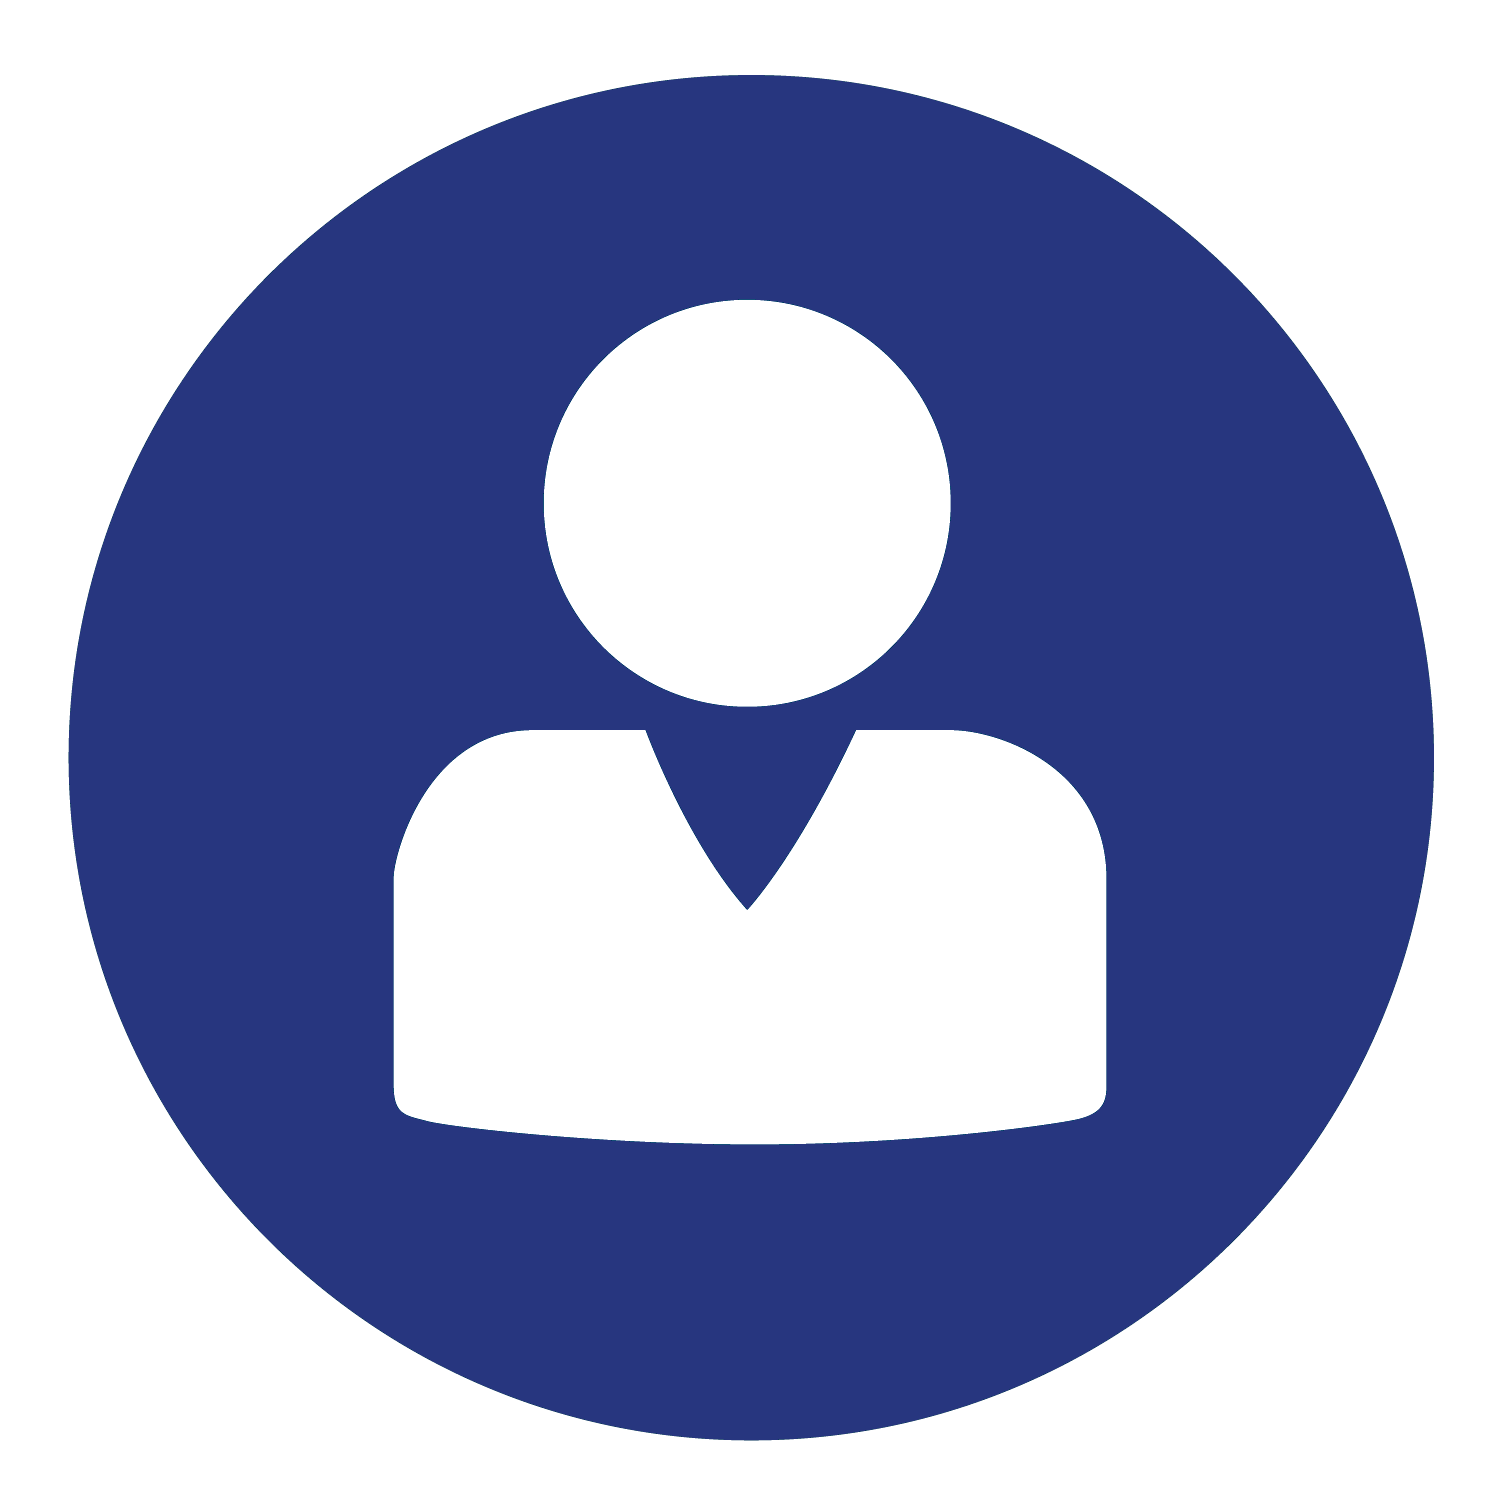
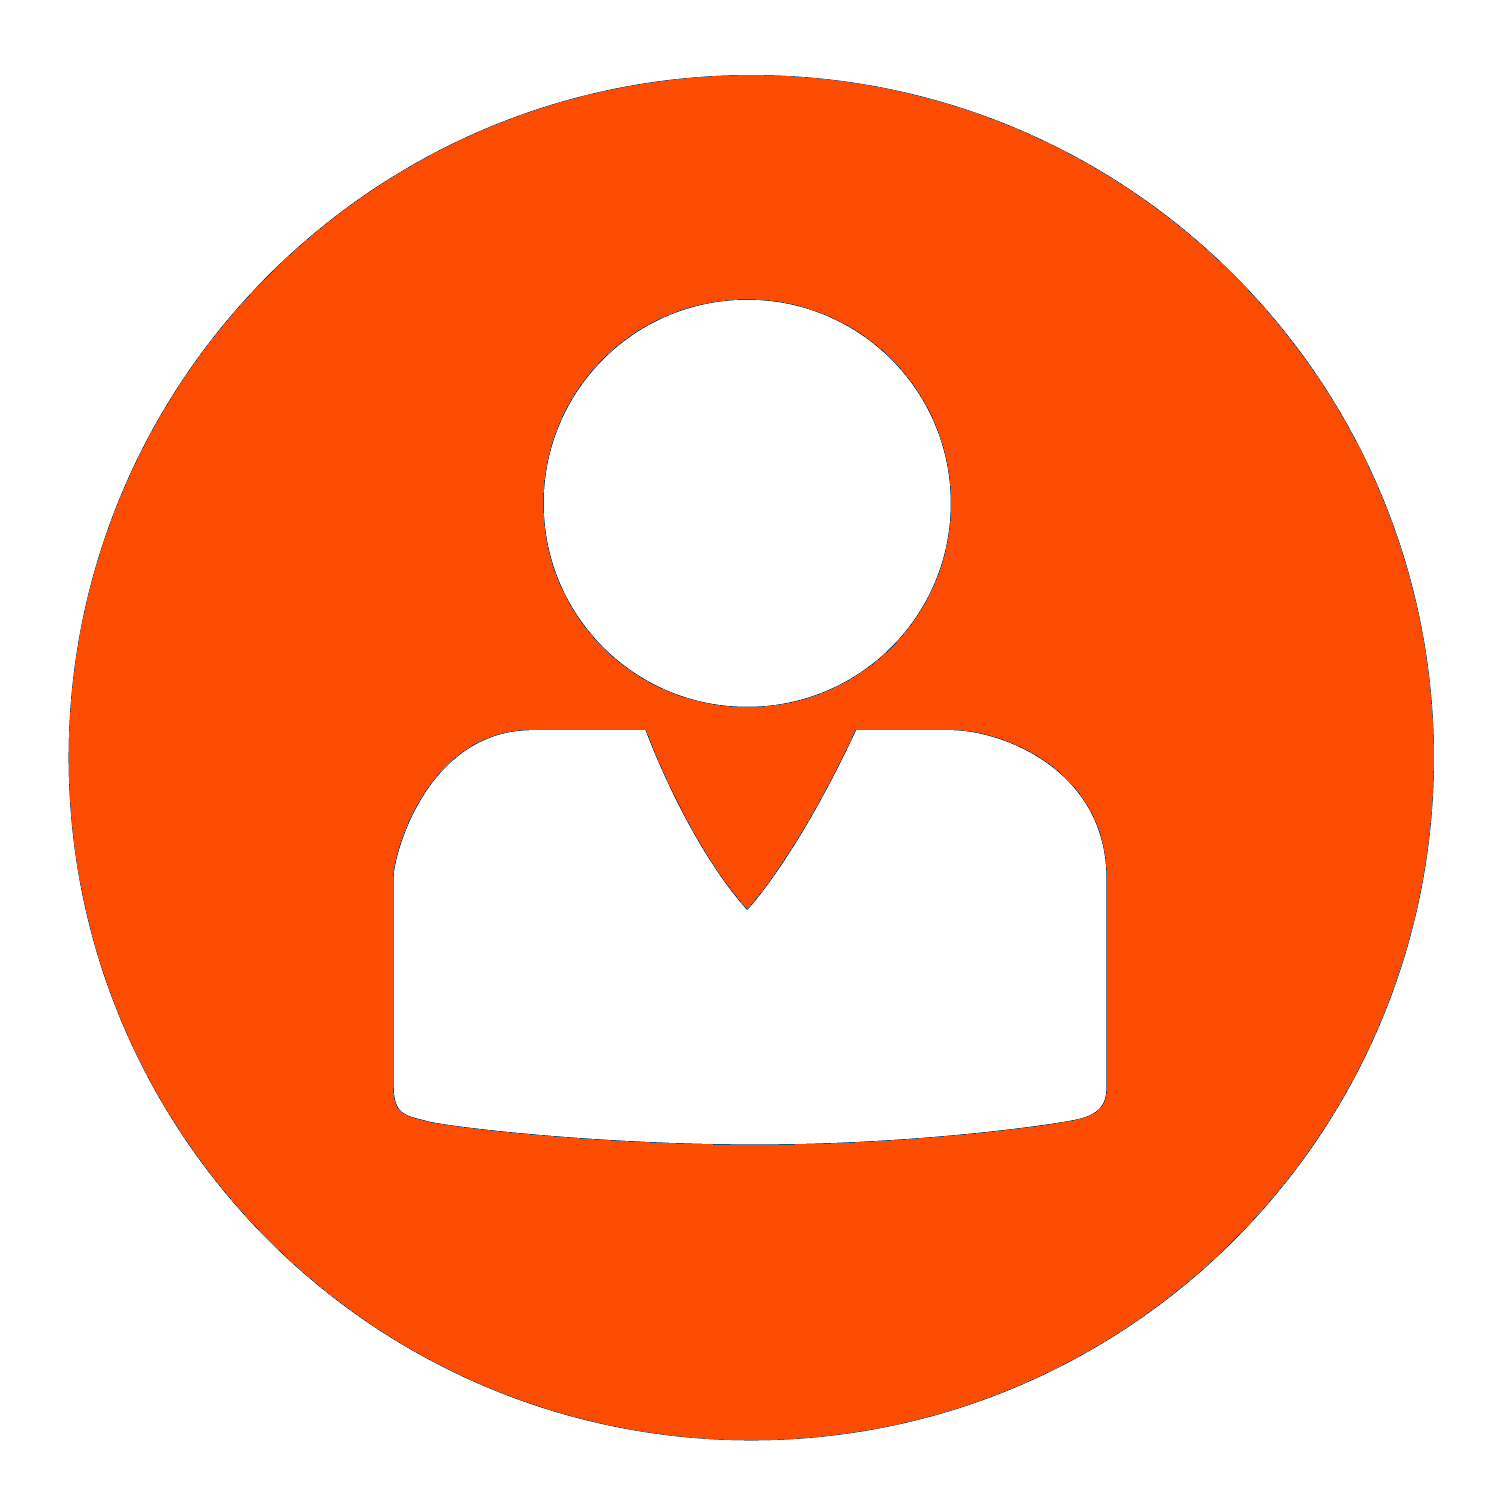
Changed the theme of the UI

diff --git a/web/src/styles.scss b/web/src/styles.scss
@@ -12646,16 +12646,16 @@ dl {
       .navbar .navbar-brand-wrapper {
         width: 55px; } }
     .navbar .navbar-brand-wrapper .navbar-brand {
-      color: #27367f;
+      color: #FC4C02;
       font-size: 1.5rem;
       line-height: 48px;
       margin-right: 0;
       padding: .25rem 0;
       width: 100%; }
       .navbar .navbar-brand-wrapper .navbar-brand:active, .navbar .navbar-brand-wrapper .navbar-brand:focus, .navbar .navbar-brand-wrapper .navbar-brand:hover {
-        color: #1b2658; }
+        color: #FC4C02; }
       .navbar .navbar-brand-wrapper .navbar-brand img {
-        width: calc(260px - 120px);
+        // width: calc(260px - 120px);
         max-width: 100%;
         height: 28px;
         margin: auto;
@@ -12663,7 +12663,7 @@ dl {
       .navbar .navbar-brand-wrapper .navbar-brand.brand-logo-mini {
         display: none; }
         .navbar .navbar-brand-wrapper .navbar-brand.brand-logo-mini img {
-          width: calc(70px - 50px);
+          // width: calc(70px - 50px);
           max-width: 100%;
           height: 28px;
           margin: auto; }
@@ -13089,10 +13089,10 @@ dl {
       .sidebar .nav .nav-item.active {
         background: #ffffff; }
         .sidebar .nav .nav-item.active > .nav-link .menu-title {
-          color: #b66dff;
+          color: #FC4C02;
           font-family: "ubuntu-medium", sans-serif; }
         .sidebar .nav .nav-item.active > .nav-link i {
-          color: #b66dff; }
+          color: #FC4C02; }
       .sidebar .nav .nav-item:hover {
         background: #fcfcfc; }
       .sidebar .nav .nav-item.nav-profile .nav-link {

diff --git a/web/src/app/error-page/error-page.component.html b/web/src/app/error-page/error-page.component.html
@@ -1,0 +1,31 @@
+<div class="container-scroller">
+    <div class="container-fluid page-body-wrapper full-page-wrapper">
+      <div class="content-wrapper d-flex align-items-center text-center error-page bg-primary">
+        <div class="row flex-grow">
+          <div class="col-lg-7 mx-auto text-white">
+            <div class="row align-items-center d-flex flex-row">
+              <div class="col-lg-6 text-lg-right pr-lg-4">
+                <h1 class="display-1 mb-0">404</h1>
+              </div>
+              <div class="col-lg-6 error-page-divider text-lg-left pl-lg-4">
+                <h2>SORRY!</h2>
+                <h3 class="font-weight-light">The page you’re looking for was not found.</h3>
+              </div>
+            </div>
+            <div class="row mt-5">
+              <div class="col-12 text-center mt-xl-2">
+                <a class="text-white font-weight-medium" href="../../index.html">Back to home</a>
+              </div>
+            </div>
+            <div class="row mt-5">
+              <div class="col-12 mt-xl-2">
+                <p class="text-white font-weight-medium text-center">Copyright &copy; 2018 All rights reserved.</p>
+              </div>
+            </div>
+          </div>
+        </div>
+      </div>
+      <!-- content-wrapper ends -->
+    </div>
+    <!-- page-body-wrapper ends -->
+  </div>

diff --git a/web/src/app/app.module.ts b/web/src/app/app.module.ts
@@ -25,7 +25,8 @@ import { FileSelectDirective } from 'ng2-file-upload';
 import { ProgressHttpModule } from 'angular-progress-http';
 import { MsalModule, MsalInterceptor } from '@azure/msal-angular';import { HTTP_INTERCEPTORS, HttpClientModule } from '@angular/common/http';
 import { JdListComponent } from './jd-list/jd-list.component'
-import { JdPdfComponent } from './jd-form/jd-pdf/jd-pdf.component'
+import { JdPdfComponent } from './jd-form/jd-pdf/jd-pdf.component';
+import { ErrorPageComponent } from './error-page/error-page.component';
 
 
 const isIE = window.navigator.userAgent.indexOf('MSIE ') > -1 || window.navigator.userAgent.indexOf('Trident/') > -1;
@@ -54,6 +55,7 @@ const isIE = window.navigator.userAgent.indexOf('MSIE ') > -1 || window.navigato
     JdListComponent,
     ScheduleInterviewComponent,
     JdPdfComponent,
+    ErrorPageComponent
   ],
   imports: [
     ReactiveFormsModule,

diff --git a/web/src/app/nav-bar/nav-bar.component.html b/web/src/app/nav-bar/nav-bar.component.html
@@ -3,8 +3,8 @@
   <nav class="navbar default-layout-navbar col-lg-12 col-12 p-0 fixed-top d-flex flex-row">
     
     <div class="text-center navbar-brand-wrapper d-flex align-items-center justify-content-center">
-      <a class="navbar-brand brand-logo" href="#"><i class="fab fa-accusoft mr-1"></i>ARMS</a>
-      <a class="navbar-brand brand-logo-mini" href="#"><i class="fab fa-accusoft mr-1"></i></a>
+      <a class="navbar-brand brand-logo"><img src="../../assets/images/logo.png">  ARMS</a>
+      <a class="navbar-brand brand-logo-mini" href="#"><img src="../../assets/images/logo.png" class="nav-profile-image"></a>
     </div>
     
     <div class="navbar-menu-wrapper d-flex align-items-stretch">

diff --git a/web/src/app/app-routing.module.ts b/web/src/app/app-routing.module.ts
@@ -16,10 +16,12 @@ import { JdPdfComponent } from './jd-form/jd-pdf/jd-pdf.component'
 import { HrComponent } from './hr/hr.component';
 import { AppNavBarComponent } from './nav-bar/nav-bar.component';
 import { RoleGuardService } from './utilities/role-guard.service';
+import { ErrorPageComponent } from './error-page/error-page.component';
 
 const routes: Routes = [
   { path: "", redirectTo: 'login', pathMatch: 'full'},
   { path: "login", component: LoginComponent },
+  { path: "404", component: ErrorPageComponent},
   { path: "admin", component: AppNavBarComponent, canActivate: [RoleGuardService], data: {role: "admin"}, children: [
     {
       path: "", redirectTo: "home", pathMatch: "full"

diff --git a/web/src/app/error-page/error-page.component.spec.ts b/web/src/app/error-page/error-page.component.spec.ts
@@ -1,0 +1,25 @@
+import { async, ComponentFixture, TestBed } from '@angular/core/testing';
+
+import { ErrorPageComponent } from './error-page.component';
+
+describe('ErrorPageComponent', () => {
+  let component: ErrorPageComponent;
+  let fixture: ComponentFixture<ErrorPageComponent>;
+
+  beforeEach(async(() => {
+    TestBed.configureTestingModule({
+      declarations: [ ErrorPageComponent ]
+    })
+    .compileComponents();
+  }));
+
+  beforeEach(() => {
+    fixture = TestBed.createComponent(ErrorPageComponent);
+    component = fixture.componentInstance;
+    fixture.detectChanges();
+  });
+
+  it('should create', () => {
+    expect(component).toBeTruthy();
+  });
+});

diff --git a/web/src/app/error-page/error-page.component.ts b/web/src/app/error-page/error-page.component.ts
@@ -1,0 +1,15 @@
+import { Component, OnInit } from '@angular/core';
+
+@Component({
+  selector: 'app-error-page',
+  templateUrl: './error-page.component.html',
+  styleUrls: ['./error-page.component.scss']
+})
+export class ErrorPageComponent implements OnInit {
+
+  constructor() { }
+
+  ngOnInit() {
+  }
+
+}

diff --git a/web/src/app/nav-bar/nav-bar.component.scss b/web/src/app/nav-bar/nav-bar.component.scss
@@ -1,3 +1,7 @@
 .nav-logout :hover{
-    color: #27367F;
+    color: #FC4C02;
+}
+
+#arms:hover{
+    color: #FC4C02;
 }
